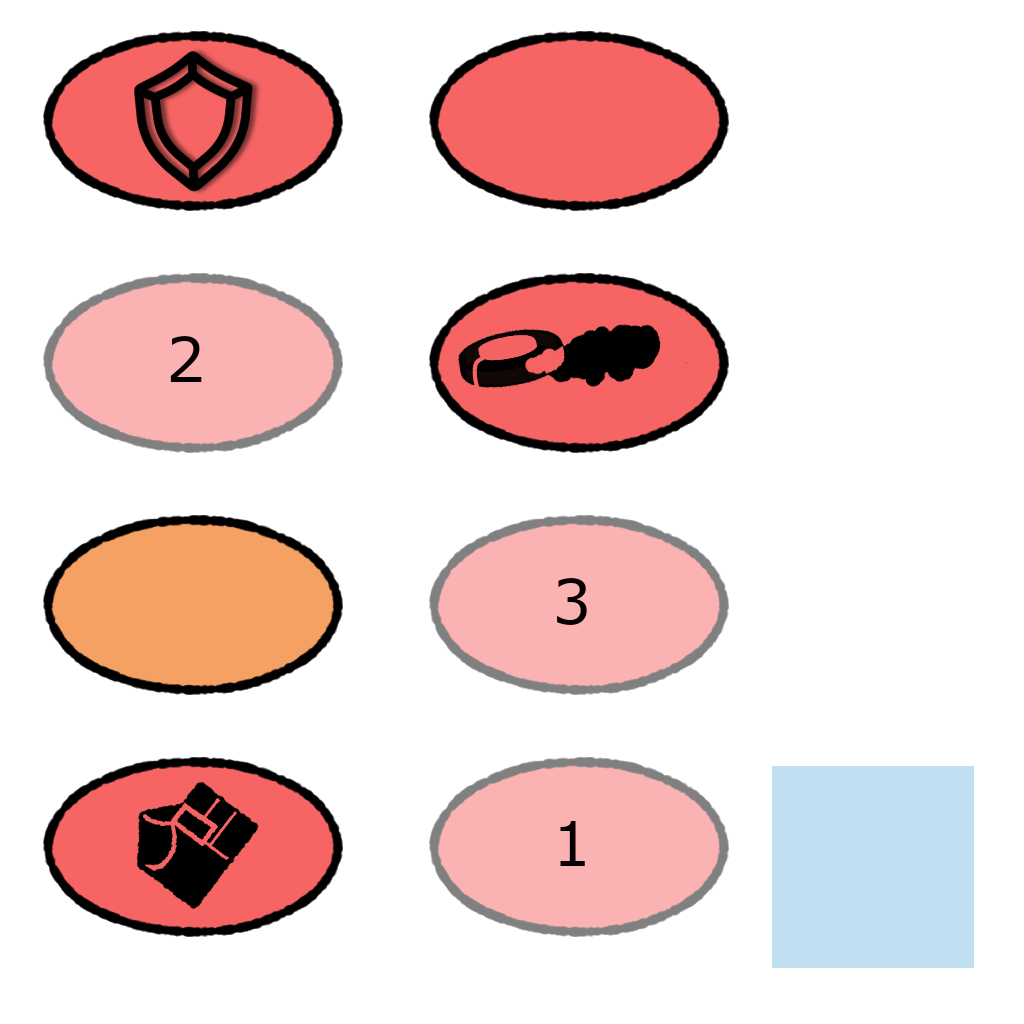
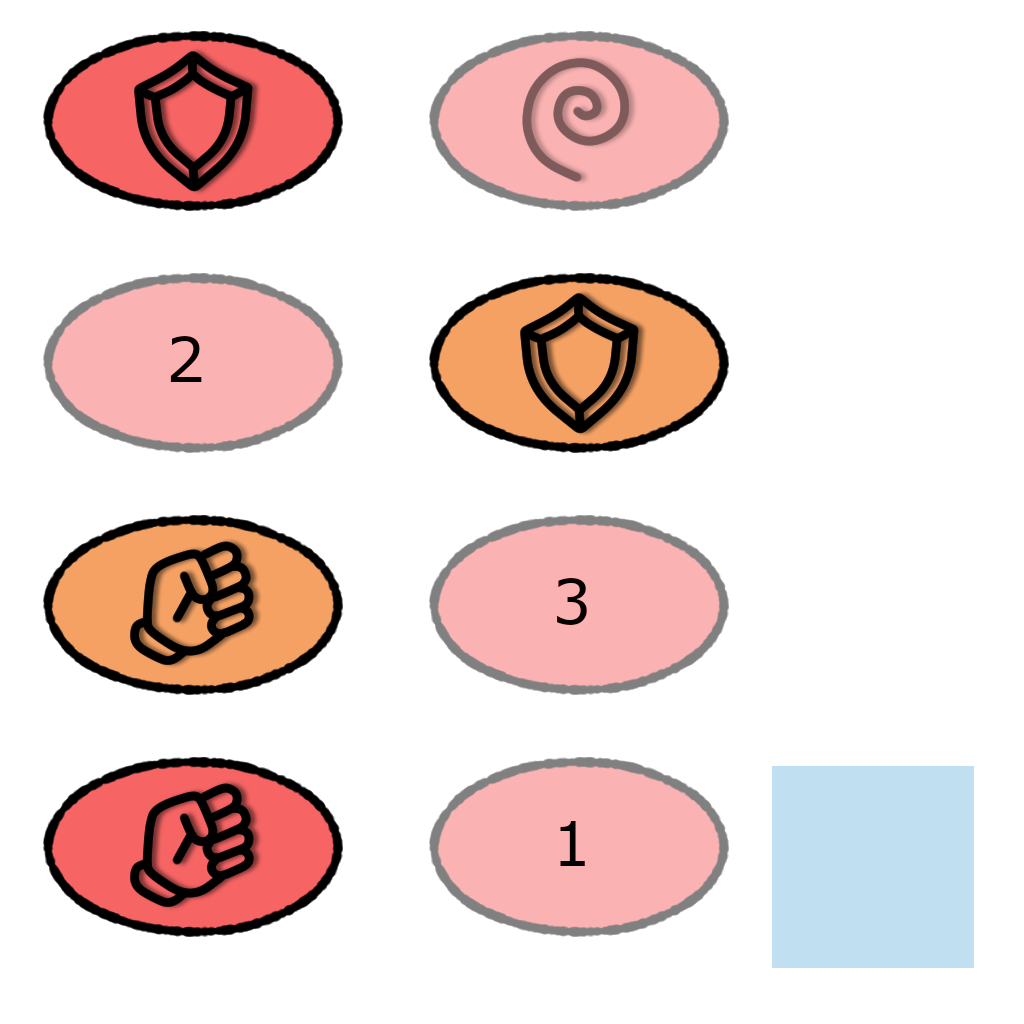
Added Miko's actionbuttons to my temporary skin. Hacking crashes now since it is looking for a shock button from my skin which does not exist anymore.

diff --git a/core/src/fi/tamk/fi/Skills.java b/core/src/fi/tamk/fi/Skills.java
@@ -26,8 +26,7 @@ public class Skills {
     public final String sound = "sound";
     public final String button = "button";
 
-    // These values are used by actionbuttons (every button will probably not have it's own button,
-    // so some of these values are going to be removed)
+    // Names for localization
     public final String ATTACK = "ATTACK";
     public final String DEFEND = "DEFEND";
     public final String ITEM = "ITEM";
@@ -36,6 +35,13 @@ public class Skills {
     public final String FIRE = "FIRE";
     public final String SUCTION = "SUCTION";
     public final String DUST = "DUST";
+
+    // Names for buttons
+    public final String btnAttack = "ATTACK";
+    public final String btnDefend = "DEFEND";
+    public final String btnItem = "ITEM";
+    public final String btnSkill = "SKILL";
+    public final String btnHeal = "HEAL";
 
     private final String[] allSkills = new String[] {ATTACK, DEFEND, ITEM, REPAIR,
             SHOCK, FIRE, SUCTION, DUST};
@@ -87,6 +93,7 @@ public class Skills {
     - hitAnimationSpd = How fast does the animation move (on default use 8, this variable might be
       deleted in the future)
     - sound = The sound effect what plays on the start of move
+    - button = Select correct button type for skill
      */
 
     /*
@@ -127,6 +134,7 @@ public class Skills {
         map.put(cooldown, 0);
         map.put(hitAnimation, physicalHit);
         map.put(sound, null);
+        map.put(button, btnAttack);
 
         mapSkills.put((String) map.get(name), map);
     }
@@ -144,6 +152,7 @@ public class Skills {
         map.put(cooldown, 3);
         map.put(hitAnimation, null);
         map.put(sound, null);
+        map.put(button, btnDefend);
 
         mapSkills.put((String) map.get(name), map);
     }
@@ -161,6 +170,7 @@ public class Skills {
         map.put(cooldown, 0);
         map.put(hitAnimation, null);
         map.put(sound, null);
+        map.put(button, btnItem);
 
         mapSkills.put((String) map.get(name), map);
     }
@@ -178,6 +188,7 @@ public class Skills {
         map.put(cooldown, 2);
         map.put(hitAnimation, null);
         map.put(sound, null);
+        map.put(button, btnHeal);
 
         mapSkills.put((String) map.get(name), map);
     }
@@ -195,6 +206,7 @@ public class Skills {
         map.put(cooldown, 3);
         map.put(hitAnimation, physicalHit);
         map.put(sound, null);
+        map.put(button, btnSkill);
 
         mapSkills.put((String) map.get(name), map);
     }
@@ -212,6 +224,7 @@ public class Skills {
         map.put(cooldown, 2);
         map.put(hitAnimation, null);
         map.put(sound, null);
+        map.put(button, btnSkill);
 
         mapSkills.put((String) map.get(name), map);
     }
@@ -229,6 +242,7 @@ public class Skills {
         map.put(cooldown, 2);
         map.put(hitAnimation, physicalHit);
         map.put(sound, files.sndSuction);
+        map.put(button, btnSkill);
 
         mapSkills.put((String) map.get(name), map);
     }
@@ -246,6 +260,7 @@ public class Skills {
         map.put(cooldown, 3);
         map.put(hitAnimation, null);
         map.put(sound, files.sndDustThrow);
+        map.put(button, btnSkill);
 
         mapSkills.put((String) map.get(name), map);
     }

diff --git a/core/src/fi/tamk/fi/RoomFight.java b/core/src/fi/tamk/fi/RoomFight.java
@@ -1159,7 +1159,7 @@ public class RoomFight extends RoomParent {
 
                 // Retrieve correct button using the keyname of the action
                 if (action.equals("")) button = "empty";
-                else button = (String) skillMap.get(skills.name);
+                else button = (String) skillMap.get(skills.button);
 
                 Drawable normal, clicked;
                 if (button.equals("empty")) {
@@ -1169,7 +1169,7 @@ public class RoomFight extends RoomParent {
                 } else if (cooldown == 0) {
                     // If cooldown is 0, get correct button for action
                     normal = testSkin.getDrawable("button_" + button);
-                    clicked = testSkin.getDrawable("button_clicked");
+                    clicked = testSkin.getDrawable("button_" + button + "_clicked");
                 } else {
                     // else it has cooldown, so retrieve correct cooldown button
                     normal = testSkin.getDrawable("button_cooldown" + cooldown);

diff --git a/core/src/fi/tamk/fi/RoomGame.java b/core/src/fi/tamk/fi/RoomGame.java
@@ -75,7 +75,7 @@ public class RoomGame extends RoomParent {
     public void createButtonFight() {
         milestoneReached = true;
         Drawable normal = testSkin.getDrawable("button_ATTACK");
-        Drawable clicked = testSkin.getDrawable("button_clicked");
+        Drawable clicked = testSkin.getDrawable("button_ATTACK_clicked");
         fightButton = new ImageButton(normal, clicked);
         fightButton.setPosition(game.pixelWidth/2 - fightButton.getWidth()/2,
                 game.pixelHeight/2 - fightButton.getHeight()/2);

diff --git a/core/src/fi/tamk/fi/Bosses.java b/core/src/fi/tamk/fi/Bosses.java
@@ -93,7 +93,7 @@ public class Bosses {
         curName = ROBBER;
         curNormalSize = true;
         curSkillName0 = skills.ATTACK;
-        curSkillName1 = skills.SUCTION;
+        curSkillName1 = skills.FIRE;
         curSkillName2 = skills.DUST;
 
         curDialogStart = "robberDialogStart";
